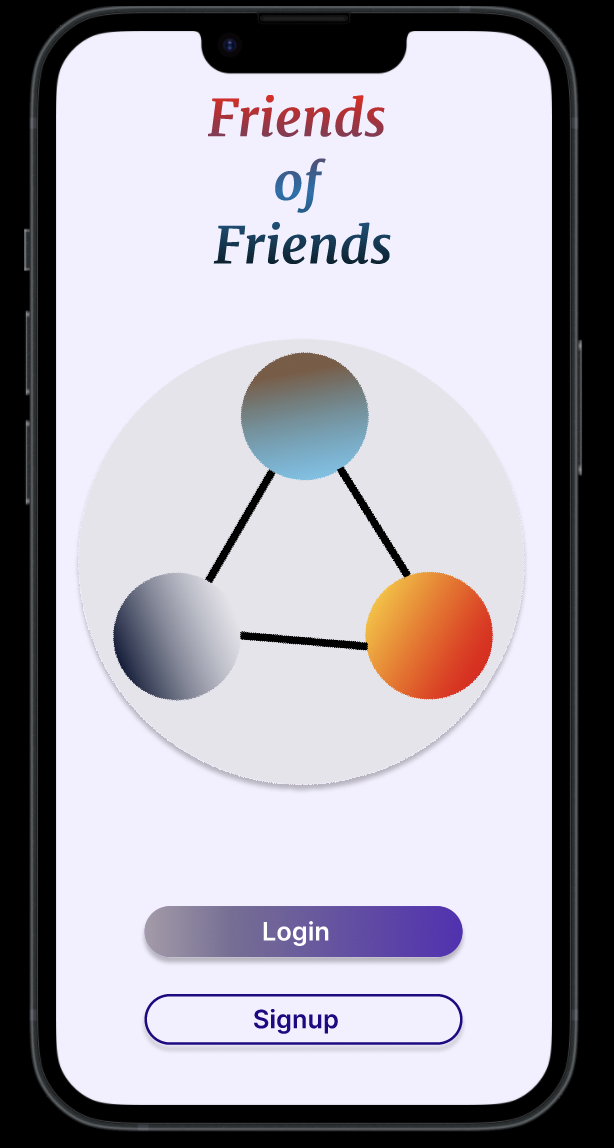
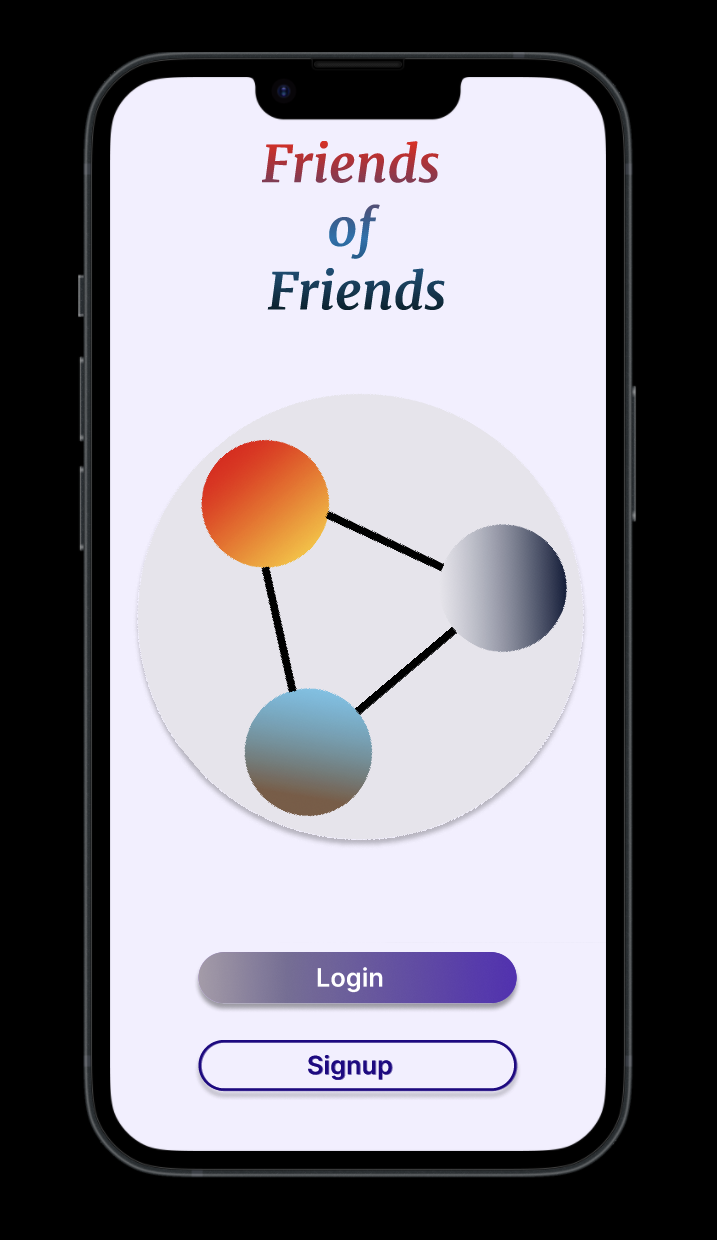
Updating FoF Photo

diff --git a/index.html b/index.html
@@ -103,8 +103,8 @@
 											</ul>
 										</article>
 										<article>
-											<a href="#" class="image"><img src="images/FriendsOfFriends.png" alt="" /></a>
-											<h3>Nulla amet dolore</h3>
+											<a href="#" class="image resize"><img src="images/FriendsOfFriends.png" alt="" /></a>
+											<h3>Friends of Friends</h3>
 											<p>Aenean ornare velit lacus, ac varius enim lorem ullamcorper dolore. Proin aliquam facilisis ante interdum. Sed nulla amet lorem feugiat tempus aliquam.</p>
 											<ul class="actions">
 												<li><a href="#" class="button">More</a></li>

diff --git a/assets/css/main.css b/assets/css/main.css
@@ -1244,6 +1244,9 @@ input[type="radio"] + label:before {
     .image.main img {
       width: 100%; }
 
+.resize {height: auto;
+        width: 85%}
+
 a.image {
   overflow: hidden; }
   a.image img {
